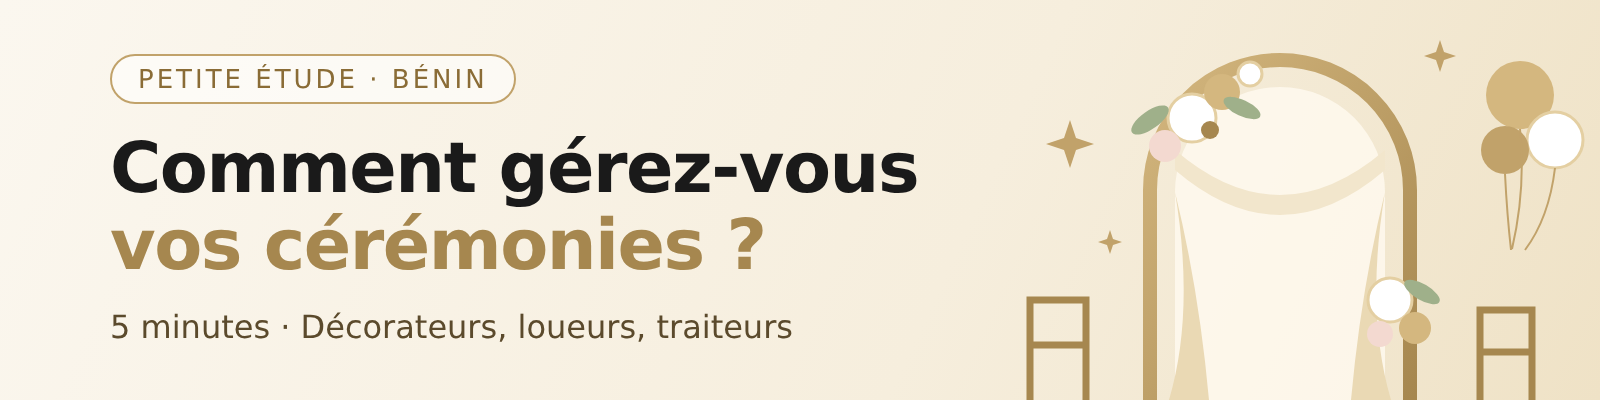
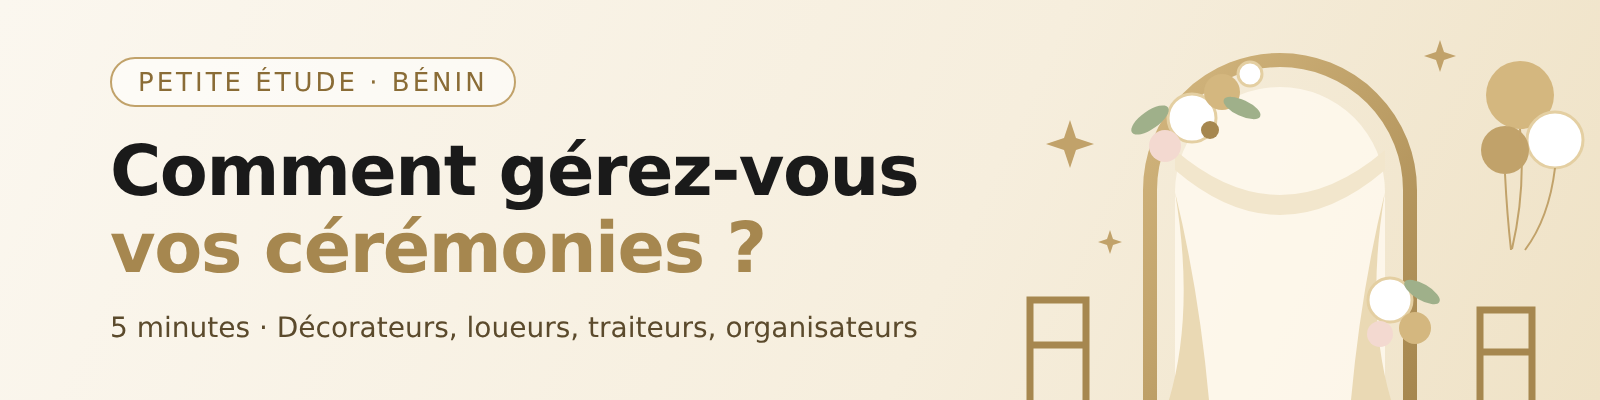
Ajoute les organisateurs d'événements à l'en-tête et à l'introduction du questionnaire
Claude-Session: https://claude.ai/code/session_018MucsxxBUDKKkiUTaMvb6y

diff --git a/docs/questionnaire/en-tete.html b/docs/questionnaire/en-tete.html
@@ -8,13 +8,13 @@
   .tag{display:inline-block;align-self:flex-start;font-size:26px;letter-spacing:3px;text-transform:uppercase;color:#8a6c36;border:2px solid #c1a26a;border-radius:40px;padding:8px 26px;margin-bottom:26px;background:rgba(255,255,255,.55)}
   h1{margin:0;font-size:70px;line-height:1.1;white-space:nowrap;color:#1a1a1a;font-weight:700;letter-spacing:-1.5px}
   h1 span{color:#a6874f}
-  p{margin:24px 0 0;font-size:32px;color:#5b4a2c}
+  p{margin:24px 0 0;font-size:28px;white-space:nowrap;color:#5b4a2c}
   svg{position:absolute;right:0;top:0}
 </style></head><body><div class="b">
 <div class="txt">
   <div class="tag">Petite étude · Bénin</div>
   <h1>Comment gérez-vous<br><span>vos cérémonies ?</span></h1>
-  <p>5 minutes · Décorateurs, loueurs, traiteurs</p>
+  <p>5 minutes · Décorateurs, loueurs, traiteurs, organisateurs</p>
 </div>
 <svg width="640" height="400" viewBox="0 0 640 400">
   <defs>
